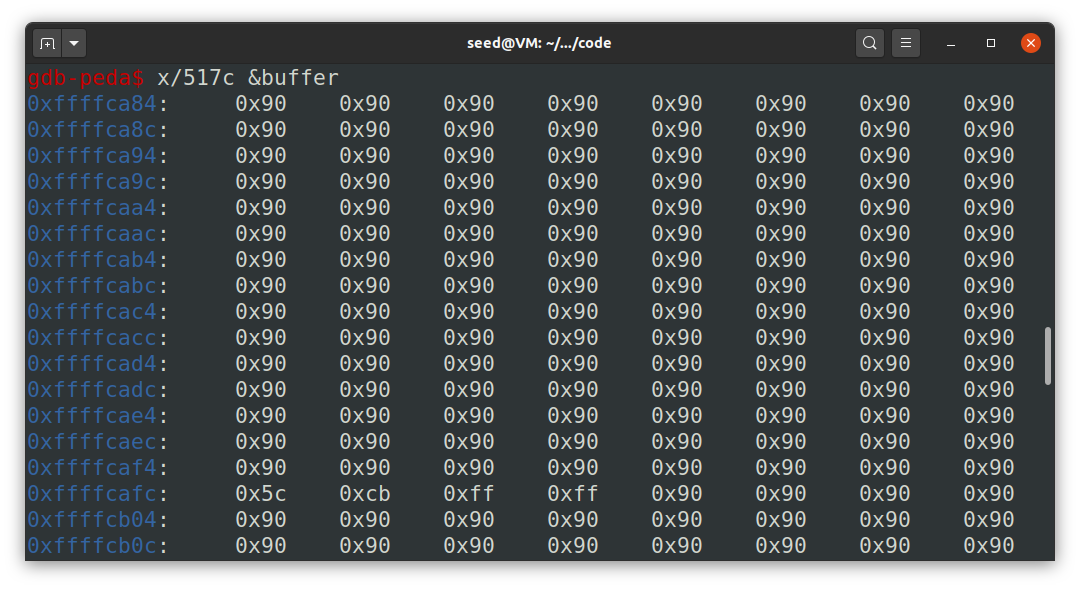
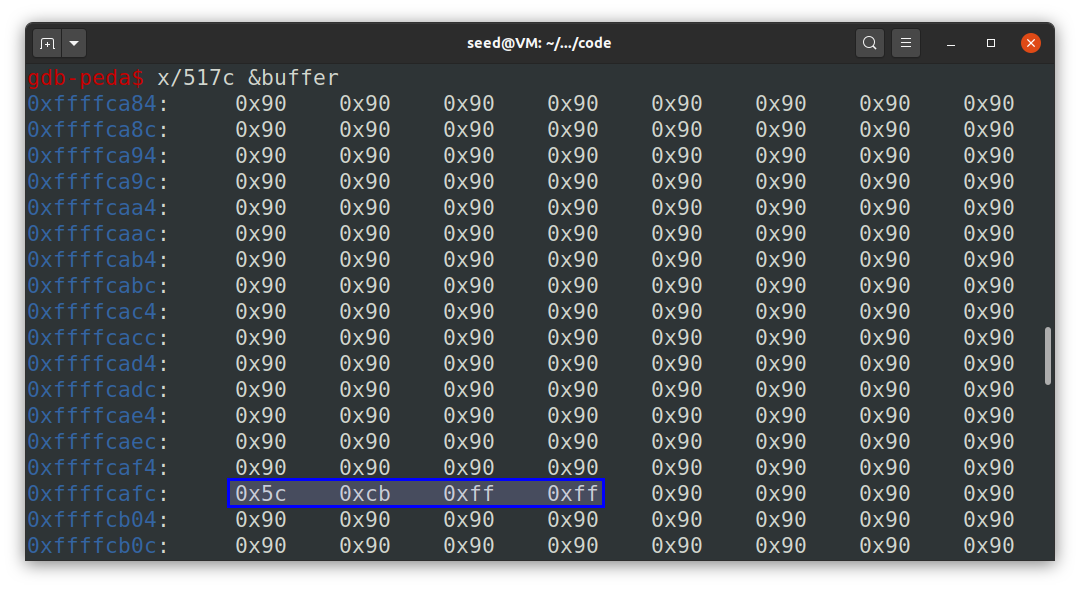
feat: update images and last checks

Changed region(s): [[0.1833, 0.7946, 0.5806, 0.8862]]

diff --git a/LOGBOOK5.md b/LOGBOOK5.md
@@ -163,7 +163,7 @@ To start, it is easier to test the exploit in the `stack-L1-dbg` file and execut
 2. To find the correct offset, we would need to use gdb to analyze the memory addresses of the program
     * We started by launching GDB with `gdb $PWD/stack-L1-dbg` and setting a breakpoint at the bof function using `b bof`. Then, run the program (`run`) and step into the function (`next`).
     * Thinking already on applying the exploit on the primary executable, since the memory addresses will not be the same, we have two alternatives:
-      - We can fill multiple spaces with the ret address needed, therefore increasing the chances for to execute the exploit
+      - We can fill multiple spaces with the ret address needed, therefore increasing the chances to execute the exploit
       - We can change the execution inside gdb to make sure everything the stack mimics the program execution outside of it.
       To make the exploit work with both the debug and non-debug version, we used the latter one. This way, we executed the following commands in `gdb`:
 
@@ -186,8 +186,8 @@ To start, it is easier to test the exploit in the `stack-L1-dbg` file and execut
 </p>
 
   > Note: the 116 interval can also be explained by the 8 space address for the argument of the function and the following 108 for the buffer just created.
-1. The start can be placed anywhere in the buffer, as long as it does not overwrite other information essential to execution, like the return address. In this case, we choose to place the shellcode at the end of the buffer, to take advantage of filling the rest of the buffer with NOP's (this makes the solution more flexible to address variations, which will be useful for exploiting the non-debug program). 
-2. Therefore, the ret value should be set to an address below (which will point to the NOP's, eventually skipping and reaching the desired address) or equal to the address where the shellcode starts, as long as it's above the address pointed by `$ebp`. Since there may be some more stack data after `$ebp`, we set it to a value much higher than `$ebp` (but still before the shellcode address).
+3. The start can be placed anywhere in the buffer, as long as it does not overwrite other information essential to execution, like the return address. In this case, we chose to place the shellcode at the end of the buffer, to take advantage of filling the rest of the buffer with NOP's (this makes the solution more flexible to address variations, which will be useful for exploiting the non-debug program). 
+4. Finally, the ret value should be set to an address below (which will point to the NOP's, eventually skipping and reaching the desired address) or equal to the address where the shellcode starts, as long as it's above the address pointed by `$ebp`. Since there may be some more stack data after `$ebp`, we set it to a value much higher than `$ebp` (but still before the shellcode address).
 
 So the final version of `exploit.py` would be:
 ```py
@@ -225,8 +225,7 @@ with open('badfile', 'wb') as f:
 
 ```
 
-After running this code with `python3 exploit.py`, the badfile will be generated and the exploit should be working if we execute the debug program,
-Because of the considerations we took regarding the addresses, our exploit ends up being flexible enough to be applied successfully on the original program, granting a shell with root privileges, as shown below:
+After running this code with `python3 exploit.py`, the badfile will be generated and the exploit should be working if we execute the debug program. Additionaly, because of the considerations we took regarding the addresses, our exploit ends up being flexible enough to be applied successfully on the original program, granting a shell with root privileges, as shown below:
 
 <p align="center" justify="center">
   <img src="./assets/LOGBOOK5/task3-1.png"/>
@@ -252,9 +251,9 @@ After generating the badfile and executing the attack, we can use the gdb tool t
   <img src="./assets/LOGBOOK5/task-3.2-2.png"/>
 </p>
 
-The above image shows the relevant bytes of the buffer addresses in memory. We can conclude 3 different things that match what we expected from the previous tasks:
+The above images show the relevant bytes of the buffer addresses in memory. We can conclude 3 different things that match what we expected from the previous tasks:
 
 - The memory region is **filled with `nop` (0x90)**. More specifically, `nop` go through the "ideal" buffer limit and overflow into other regions of memory, corrupting the data that was there.
 - Highlighted with **red**, we can see the **initial buffer addresses contain the shellcode** which we injected at the end of the buffer. These are the instructions that will be executed after we return from the function.
-- Highlighted in **blue**, we can see the **return address which was overwritten with the buffer overflow**, replacing the return address, in order to return to the desired memory location. In this case, it points to 100 bytes after `$edp`, making it so that the shellcode is the next piece of code to be executed.
+- Highlighted in **blue**, we can see the **return address which was overwritten with the buffer overflow**, replacing the return address, in order to return to the desired memory location. In this case, it points to 100 bytes after `$ebp`, making it so that the shellcode is the next piece of code to be executed.
 
